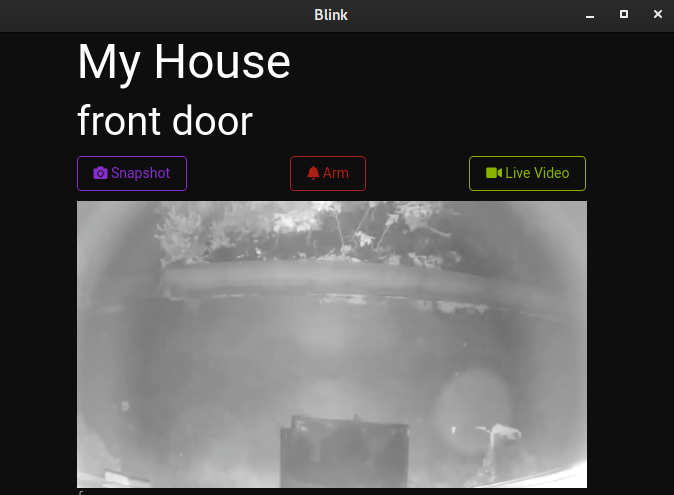
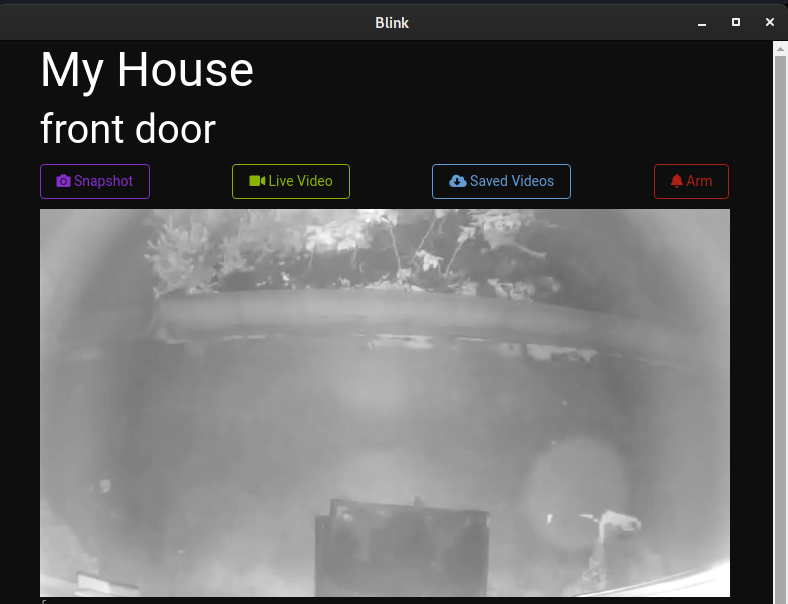
add download button

diff --git a/src/pages/PageHome.js b/src/pages/PageHome.js
@@ -8,8 +8,9 @@ const Camera = ({ camera, thumb }) => (
     <h3>{camera.name}</h3>
     <div style={{ marginTop: 10, marginBottom: 10, display: 'flex', justifyContent: 'space-between' }}>
       <Button outline color='info'><i className='fas fa-camera' /> Snapshot</Button>
-      <Button outline color='danger'><i className='fa fa-bell' /> Arm</Button>
       <Button outline color='success'><i className='fas fa-video' /> Live Video</Button>
+      <Button outline color='primary'><i className='fas fa-cloud-download-alt' /> Saved Videos</Button>
+      <Button outline color='danger'><i className='fa fa-bell' /> Arm</Button>
     </div>
     <img src={thumb} width='100%' />
     <pre>{JSON.stringify(camera, null, 2)}</pre>
@@ -32,7 +33,7 @@ const PageHome = ({ summary }) => {
     <Container>
       {summary.networks.map(network => (
         <div key={network.id}>
-          <h2>{network.name}</h2>
+          <h2>My House</h2>
           {summary.cameras.filter(camera => camera.network_id === network.id).map((camera, c) => (<Camera key={camera.id} camera={camera} thumb={thumbs[c]} />))}
         </div>
       ))}
